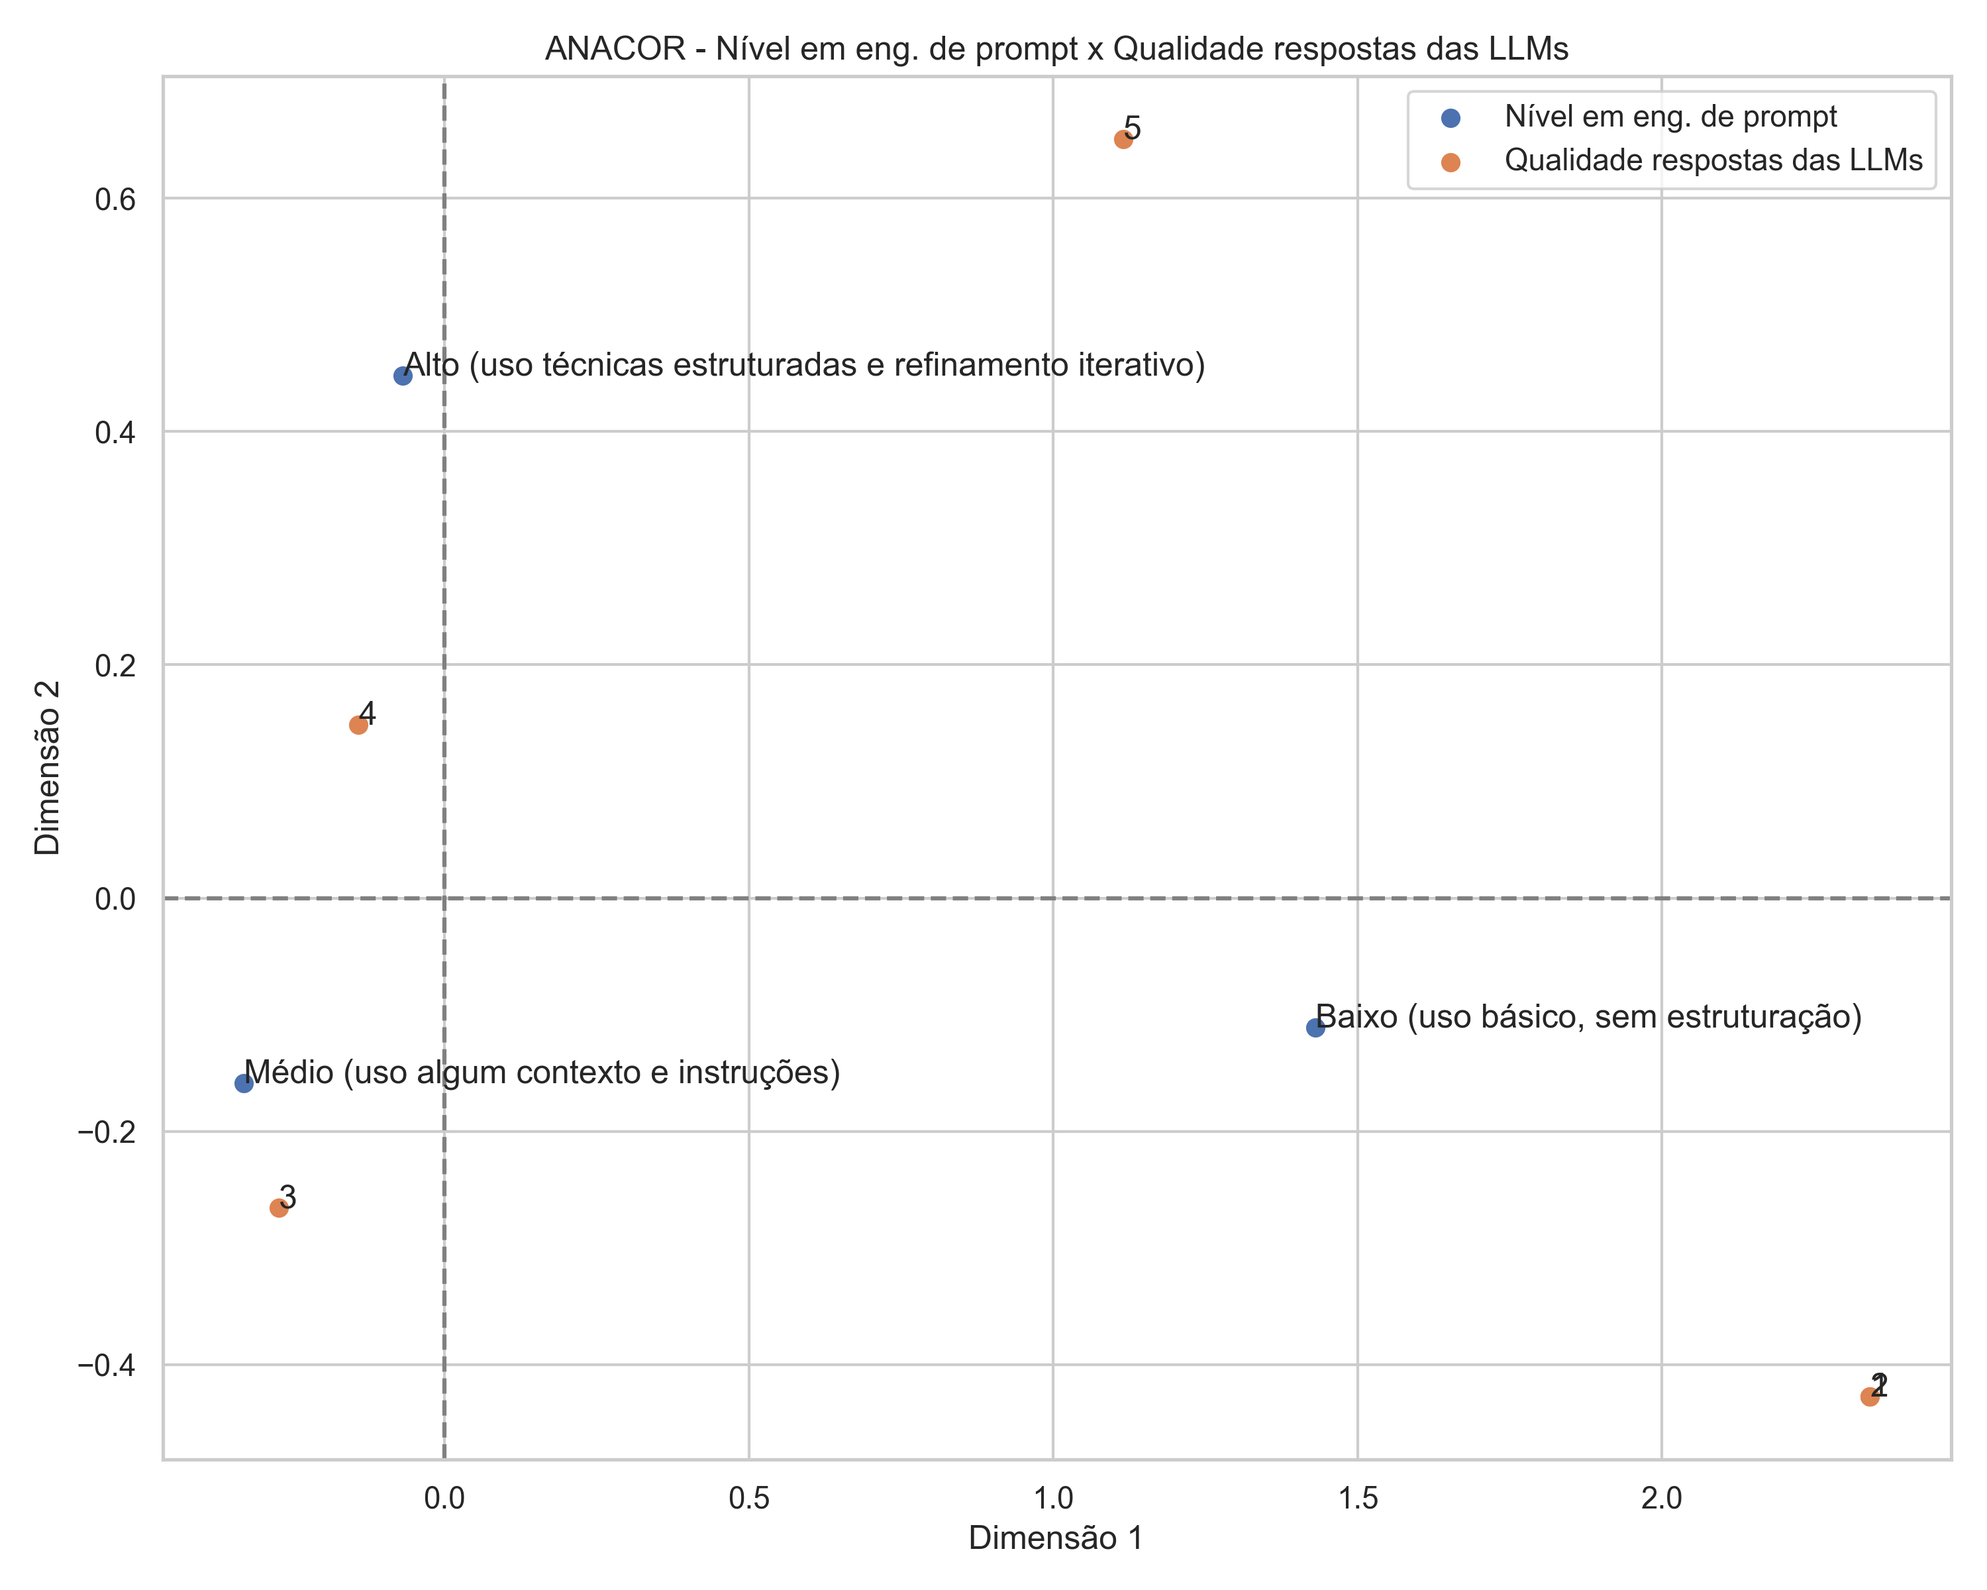
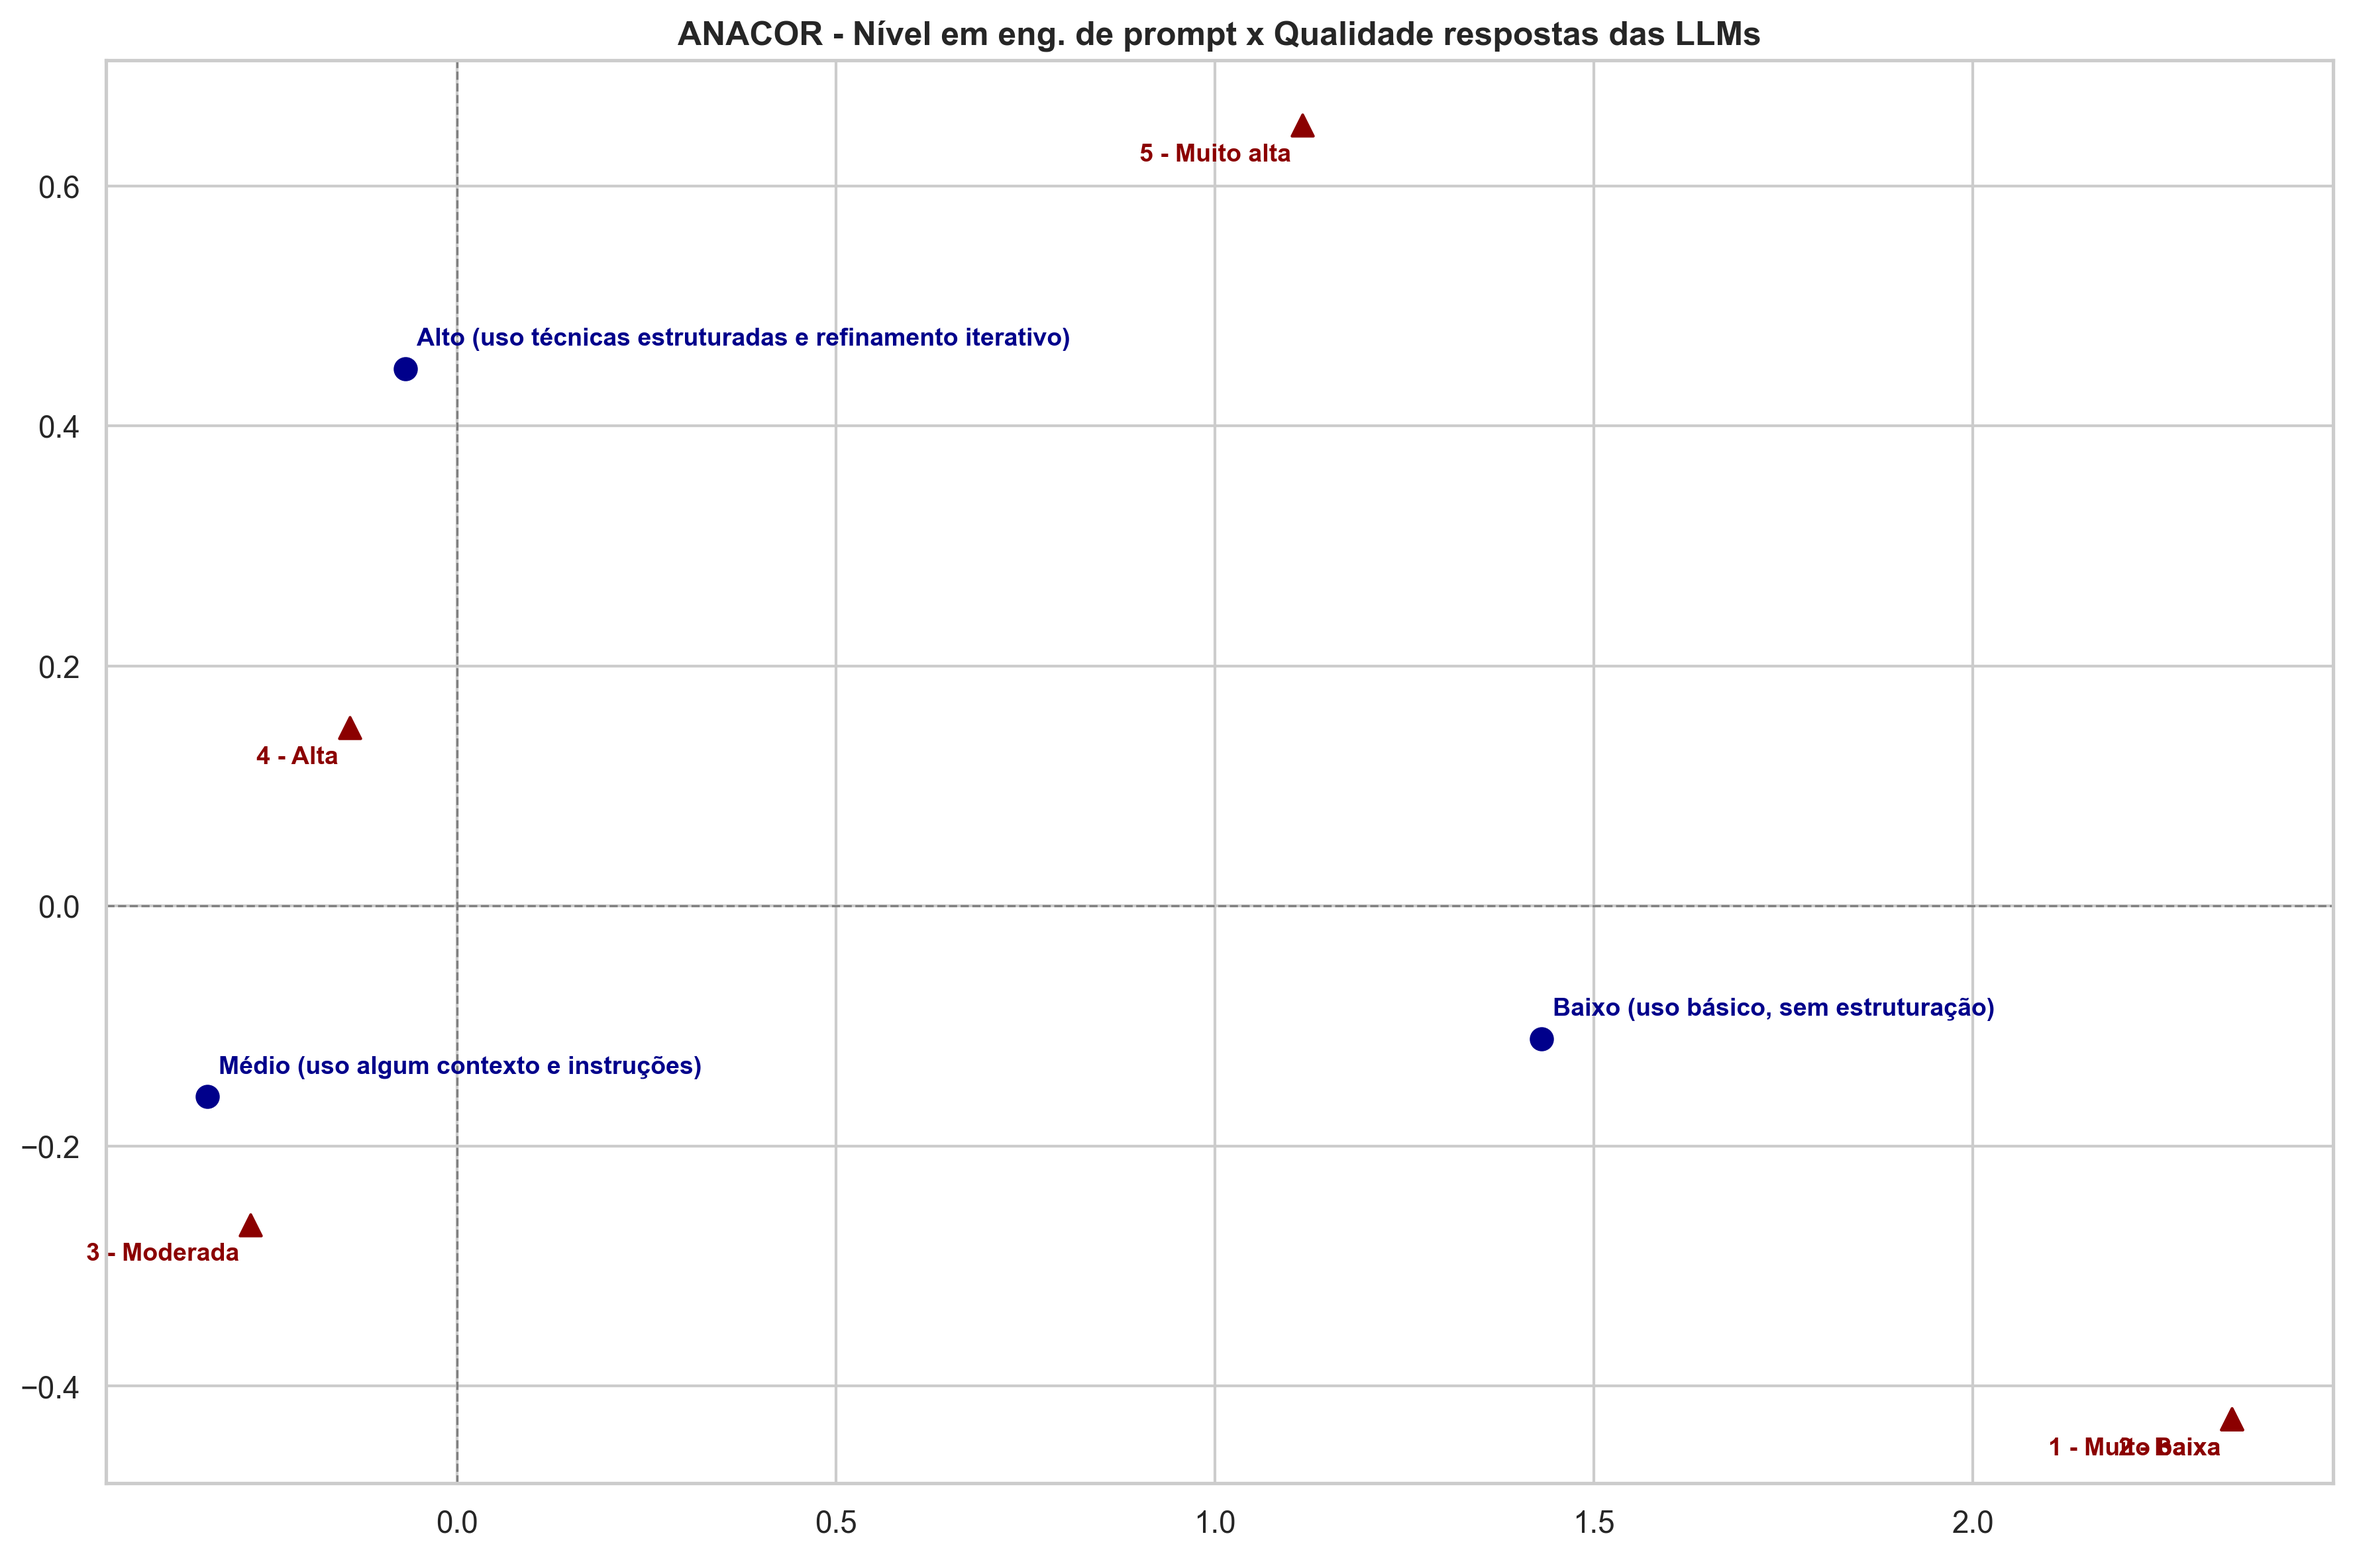
change some settings to better see data on graphs

diff --git a/analise.py b/analise.py
@@ -4,7 +4,6 @@ import prince
 import seaborn as sns
 from scipy.stats import chi2_contingency
 from pathlib import Path
-from typing import cast
 
 
 # =====================================================
@@ -20,7 +19,7 @@ Path('resultados').mkdir(exist_ok=True)
 
 # Estilo visual
 plt.style.use('ggplot')
-sns.set_theme(style='whitegrid')
+sns.set_theme(style='whitegrid', rc={'figure.facecolor': 'white', 'axes.facecolor': 'white'})
 
 # =====================================================
 # LEITURA DOS DADOS
@@ -75,6 +74,37 @@ mapa_nomes_reversos = {
 }
 
 # =====================================================
+# MAPEAMENTO DE VALORES NUMÉRICOS PARA TEXTO (AP9)
+# =====================================================
+
+mapeamento_likert = {
+    'uso_tecnicas': {
+        1: '1 - Nunca', 2: '2 - Raramente', 3: '3 - Ocasionalmente', 
+        4: '4 - Frequentemente', 5: '5 - Sempre'
+    },
+    'qualidade': {
+        1: '1 - Muito baixa', 2: '2 - Baixa', 3: '3 - Moderada', 
+        4: '4 - Alta', 5: '5 - Muito alta'
+    },
+    'objetivo': {
+        1: '1 - Nunca', 2: '2 - Raramente', 3: '3 - Às vezes', 
+        4: '4 - Frequentemente', 5: '5 - Sempre'
+    },
+    'reformulacao': {
+        1: '1 - Sempre', 2: '2 - Frequentemente', 3: '3 - Às vezes', 
+        4: '4 - Raramente', 5: '5 - Nunca'
+    },
+    'facilidade': {
+        1: '1 - Muito difícil', 2: '2 - Difícil', 3: '3 - Moderada', 
+        4: '4 - Fácil', 5: '5 - Muito fácil'
+    }
+}
+
+for col, mapa in mapeamento_likert.items():
+    if col in df.columns:
+        df[col] = df[col].replace(mapa)
+
+# =====================================================
 # SELEÇÃO DAS VARIÁVEIS IMPORTANTES
 # =====================================================
 
@@ -107,22 +137,23 @@ titulos = [
 # =====================================================
 
 def grafico_barras(coluna, name):
-    plt.figure(figsize=(10, 5))
+    plt.figure(figsize=(10, 5), facecolor='white')
 
     contagem = df[coluna].value_counts()
 
     sns.barplot(
         x=contagem.index,
-        y=contagem.values
+        y=contagem.values,
+        palette='Blues_d'
     )
 
-    plt.title(f'Distribuição - {name}')
-    plt.xticks(rotation=25)
+    plt.title(f'Distribuição - {name}', fontsize=12, fontweight='bold')
+    plt.xticks(rotation=25, ha='right')
     plt.ylabel('Frequência')
     plt.tight_layout()
 
     caminho = f'graficos/barra_{coluna}.png'
-    plt.savefig(caminho, dpi=300)
+    plt.savefig(caminho, dpi=300, facecolor='white', bbox_inches='tight')
     plt.close()
 
     print(f'Gráfico salvo: {caminho}')
@@ -161,7 +192,7 @@ sns.heatmap(
 plt.title('Mapa de Correlação Entre Variáveis')
 plt.tight_layout()
 
-plt.savefig('graficos/heatmap_correlacao.png', dpi=300)
+plt.savefig('graficos/heatmap_correlacao.png', dpi=300, facecolor='white', bbox_inches='tight')
 plt.close()
 
 print('Heatmap salvo.')
@@ -219,52 +250,50 @@ def executar_anacor(var1, var2):
     # GRÁFICO ANACOR
     # -----------------------------
 
-    plt.figure(figsize=(10, 8))
+    fig, ax = plt.subplots(figsize=(12, 8), facecolor='white')
 
-    # Garantir que existam pelo menos 2 dimensões
-    if row_coords.shape[1] < 2 or col_coords.shape[1] < 2:
-        print('ANACOR não possui duas dimensões suficientes.')
-        return None
+    # Calcula um deslocamento proporcional à escala do gráfico
+    xlim = ax.get_xlim()
+    ylim = ax.get_ylim()
+    offset_x = (xlim[1] - xlim[0]) * 0.015
+    offset_y = (ylim[1] - ylim[0]) * 0.015
 
-    # Alterado o parâmetro label para refletir o nome real das variáveis analisadas
-    plt.scatter(
-        row_coords.iloc[:, 0],
-        row_coords.iloc[:, 1],
-        label=mapa_nomes_reversos.get(var1, var1)
-    )
+    # Para as LINHAS: desloca ligeiramente para CIMA e para a DIREITA
+    for label, (x, y) in row_coords.iterrows():
+        ax.scatter(x, y, color='darkblue', marker='o', s=60)
+        ax.annotate(
+            str(label), 
+            (x, y), 
+            xytext=(x + offset_x, y + offset_y),
+            ha='left', 
+            va='bottom',
+            fontsize=9, 
+            color='darkblue',
+            fontweight='bold'
+        )
 
-    plt.scatter(
-        col_coords.iloc[:, 0],
-        col_coords.iloc[:, 1],
-        label=mapa_nomes_reversos.get(var2, var2)
-    )
+    # Para as COLUNAS: desloca ligeiramente para BAIXO e para a ESQUERDA
+    for label, (x, y) in col_coords.iterrows():
+        ax.scatter(x, y, color='darkred', marker='^', s=60)
+        ax.annotate(
+            str(label), 
+            (x, y), 
+            xytext=(x - offset_x, y - offset_y),
+            ha='right', 
+            va='top',
+            fontsize=9, 
+            color='darkred',
+            fontweight='bold'
+        )
 
-    # Rótulos linhas
-    for i, txt in enumerate(row_coords.index):
-        x = row_coords.iloc[i, 0]
-        y = row_coords.iloc[i, 1]
+    ax.axhline(0, color='grey', linestyle='--', linewidth=0.8)
+    ax.axvline(0, color='grey', linestyle='--', linewidth=0.8)
 
-        plt.annotate(txt, cast(tuple[float, float], (x, y)))
-
-    # Rótulos colunas
-    for i, txt in enumerate(col_coords.index):
-        x = col_coords.iloc[i, 0]
-        y = col_coords.iloc[i, 1]
-
-        plt.annotate(txt, cast(tuple[float, float], (x, y)))
-
-    plt.axhline(0, color='gray', linestyle='--')
-    plt.axvline(0, color='gray', linestyle='--')
-
-    plt.title(f'ANACOR - {mapa_nomes_reversos.get(var1, var1)} x {mapa_nomes_reversos.get(var2, var2)}')
-    plt.xlabel('Dimensão 1')
-    plt.ylabel('Dimensão 2')
-    plt.legend()
+    plt.title(f'ANACOR - {mapa_nomes_reversos.get(var1, var1)} x {mapa_nomes_reversos.get(var2, var2)}', fontsize=12, fontweight='bold')
     plt.tight_layout()
 
     caminho = f'graficos/anacor_{var1}_{var2}.png'
-
-    plt.savefig(caminho, dpi=300)
+    plt.savefig(caminho, dpi=300, facecolor='white', bbox_inches='tight')
     plt.close()
 
     print(f'Gráfico salvo: {caminho}')
